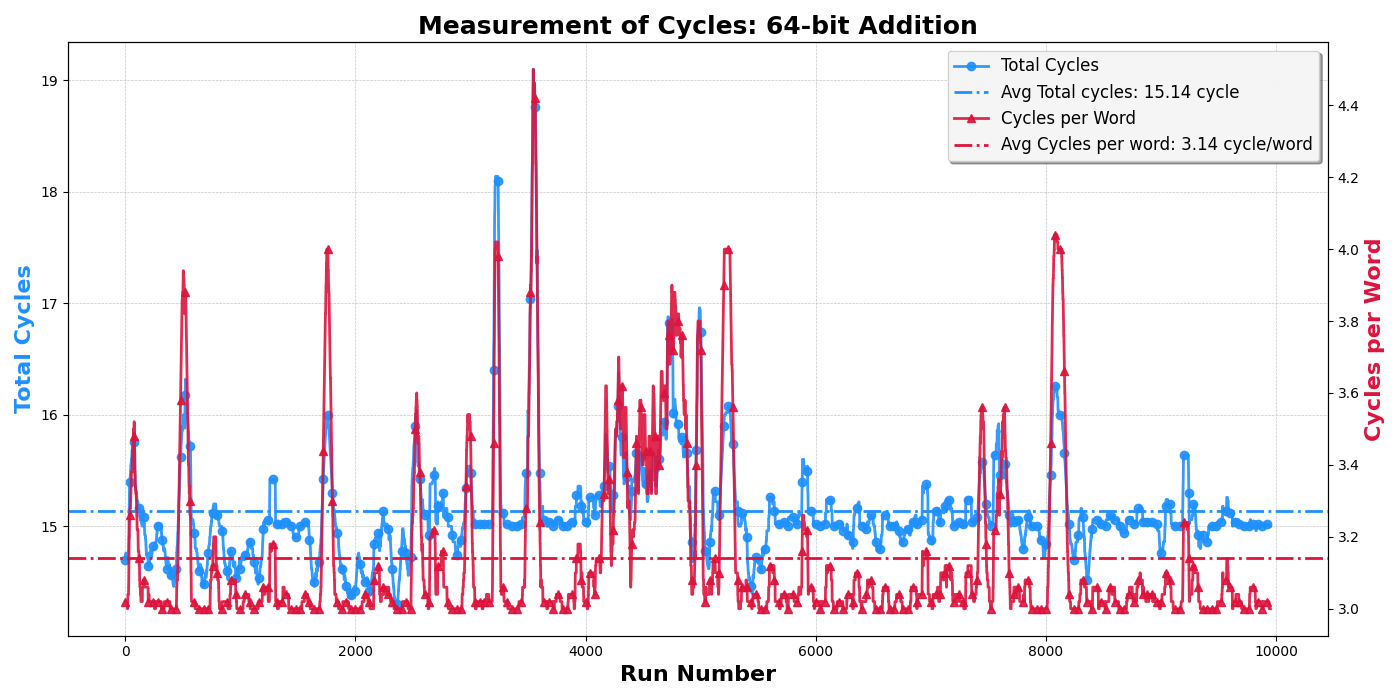
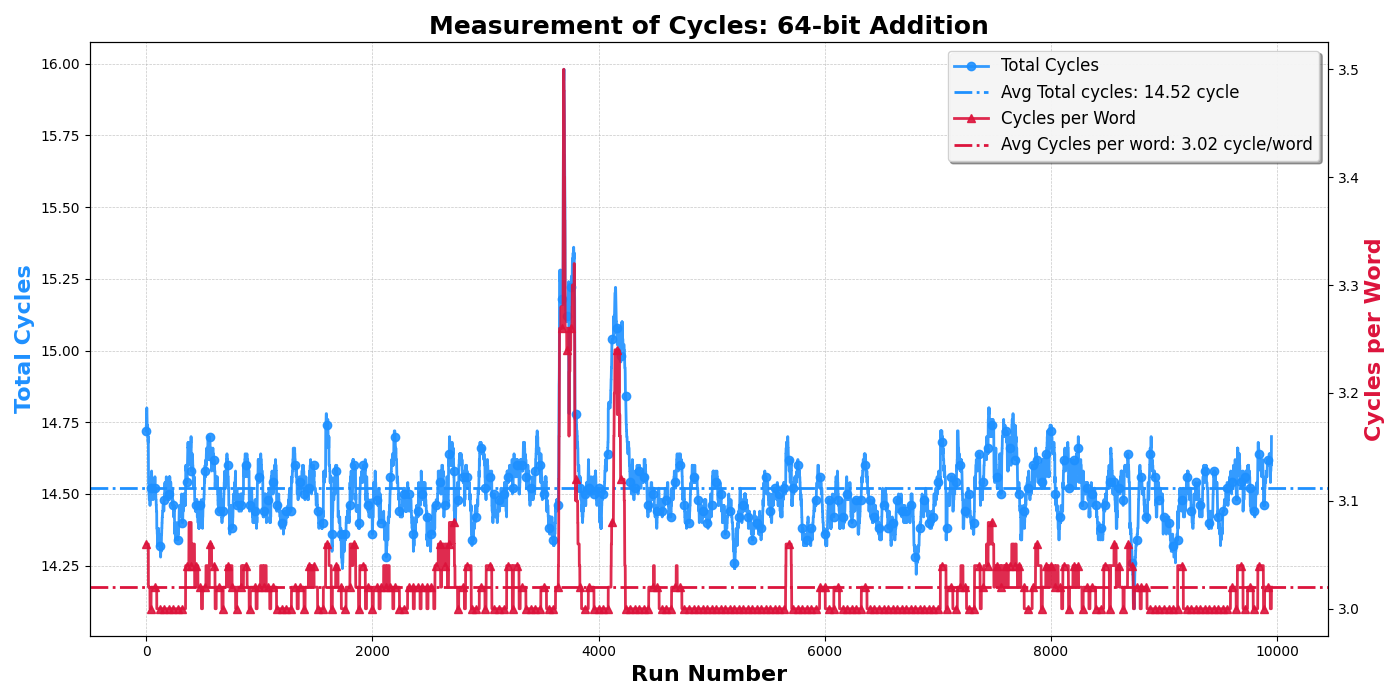
Laptop240219v3.1 - Change Parameter Name

diff --git a/src/main.c b/src/main.c
@@ -6,9 +6,10 @@ int main(void) {
[2 lines of base64/hex data omitted]
 
-    word src1[SIZE];
-    word src2[SIZE];
-    word dst[SIZE] = { 0x00, };
+    // word src1[SIZE];
+    // word src2[SIZE];
+    // word dst[SIZE] = { 0x00, };
+    field src1, src2, dst;
 
     stringToWord(src1, opA);
     stringToWord(src2, opB);
@@ -19,17 +20,17 @@ int main(void) {
     addition_p256(dst, src1, src2);
     // printData(dst);
 
-    addition_p256_test();
+    // addition_p256_test();
 
-    // u64 cycles;
-    // for (u32 i = 0; i < 12000; i++) {
-    //     assign_rand(src1, SIZE);
-    //     assign_rand(src2, SIZE);
-    //     cycles = measure_cycles(addition_p256, dst, src1, src2);
-    //     if (i >= 1000 && i < 11000) {
-    //         printf("%" PRIu64 "\n", cycles);
-    //         printf("%llu\n", (long long)cycles / (long long)SIZE);
-    //     }
-    // }
+    u64 cycles;
+    for (u32 i = 0; i < 12000; i++) {
+        assign_rand(src1, SIZE);
+        assign_rand(src2, SIZE);
+        cycles = measure_cycles(addition_p256, dst, src1, src2);
+        if (i >= 1000 && i < 11000) {
+            printf("%" PRIu64 "\n", cycles);
+            printf("%llu\n", (long long)cycles / (long long)SIZE);
+        }
+    }
     return 0;
 }

diff --git a/src/secp256r1_bigint.c b/src/secp256r1_bigint.c
@@ -1,6 +1,6 @@
 #include "secp256r1_bigint.h"
 
-void addition_single(word* epsilon, word* dst, const word src1, const word src2) {
+void addition_single(word* epsilon, field dst, const word src1, const word src2) {
 	word tmp = *epsilon;
 	word sum = src1 + src2;
 	*epsilon = (sum < src1); // Set epsilon to 1 if there was a carry-out, otherwise 0
@@ -9,13 +9,13 @@ void addition_single(word* epsilon, word* dst, const word src1, const word src2)
     *dst = sum; // Set the destination word
 }
 
-void addition_core(word* epsilon, word* dst, const word* src1, const word* src2) {
+void addition_core(word* epsilon, field dst, const field src1, const field src2) {
 	for(u8 i = 0; i < SIZE; i++) {
 		addition_single(epsilon, dst + i, src1[i] , src2[i]);
 	}
 }
 
-void addition_p256(word* dst, const word* src1, const word* src2) {
+void addition_p256(field dst, const field src1, const field src2) {
 	word epsilon = 0;
 	word buffer[SIZE] = { 0x00, };
 	addition_core(&epsilon, buffer, src1, src2);

diff --git a/include/secp256r1_bigint.h b/include/secp256r1_bigint.h
@@ -24,9 +24,9 @@ static const field PRIME_INVERSE = {
 };
 #endif
 
-void addition_single(word* epsilon, word* dst, const word src1, const word src2);
-void addition_core(word* epsilon, word* dst, const word* src1, const word* src2);
-void addition_p256(word* dst, const word* src1, const word* src2);
+void addition_single(word* epsilon, field dst, const word src1, const word src2);
+void addition_core(word* epsilon, field dst, const field src1, const field src2);
+void addition_p256(field dst, const field src1, const field src2);
 
 
 #endif /* _SECP256R1_BIGINT_H */

diff --git a/include/secp256r1_utils.h b/include/secp256r1_utils.h
@@ -22,7 +22,7 @@ void stringToWord(word* wordArray, const char* hexString);
 void printData(word* data);
 void printTestData(word* data);
 
-u64 measure_cycles(void (*func)(word*, const word*, const word*),
-                                  word* dst, const word* src1, const word* src2);
+u64 measure_cycles(void (*func)(field, const field, const field),
+                                  field dst, const field src1, const field src2);
 
 #endif /* _SECP256R1_UTILS */

diff --git a/src/secp256r1_utils.c b/src/secp256r1_utils.c
@@ -35,8 +35,8 @@ void printTestData(word* data) {
     } puts("");
 }
 
-u64 measure_cycles(void (*func)(word*, const word*, const word*),
-                                  word* dst, const word* src1, const word* src2) {
+u64 measure_cycles(void (*func)(field, const field, const field),
+                                  field dst, const field src1, const field src2) {
     u32 ui;
     u64 start, end;
     const u64 num = 10000;

diff --git a/include/secp256r1_config.h b/include/secp256r1_config.h
@@ -60,7 +60,7 @@ typedef uint64_t    u64;
 #endif
 
 // Define this to force 32-bit mode in development
-#define FORCE_32_BIT
+// #define FORCE_32_BIT
 
 // Simplified check for 32-bit or forced 32-bit mode
 #if defined(FORCE_32_BIT) || !defined(_WIN64) && !defined(__x86_64__) && !defined(__ppc64__)

diff --git a/README.md b/README.md
@@ -9,5 +9,5 @@
 **My Performance**
 | Operation \ Platform | 32-bit | 64-bit |
 | --- | --- | --- |
-| Addition (Total) | 21.85 cycle | 15.14 cycle |
-| Addition (per Word) | 2.5 cycle/word | 3.14 cycle/word |
+| Addition (Total) | 22.23 cycle | 14.52 cycle |
+| Addition (per Word) | 2.50 cycle/word | 3.02 cycle/word |
